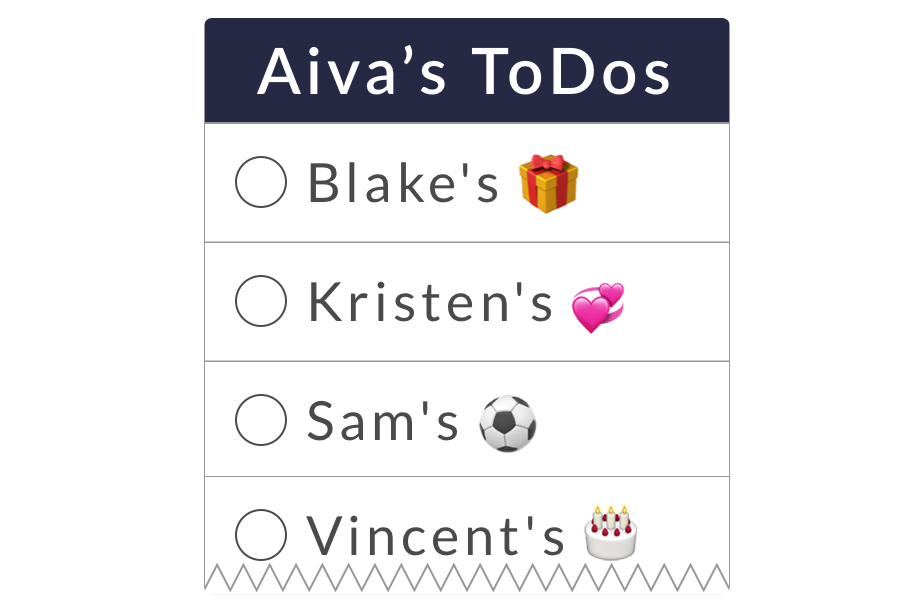
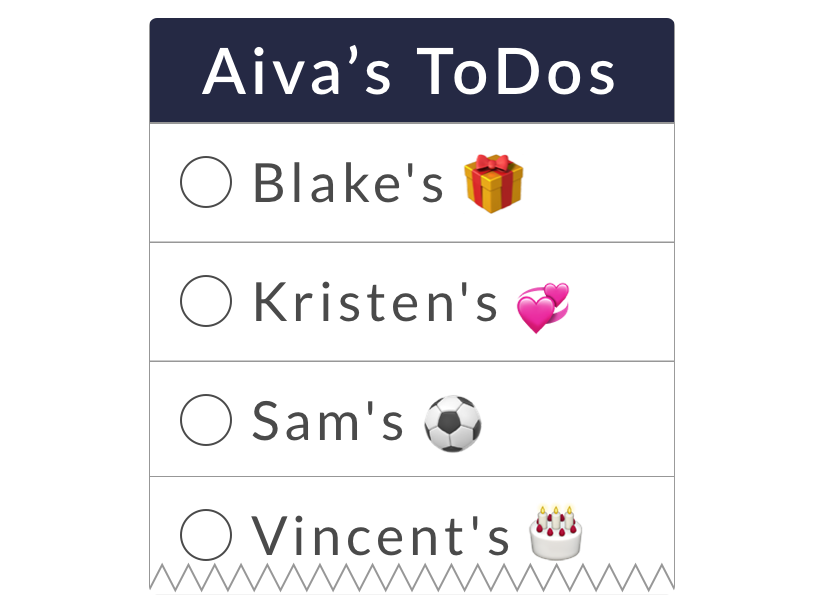
Fixed for mobile screensizes for the most part.

diff --git a/index.html b/index.html
@@ -70,7 +70,7 @@
 			<div class="row row-problem">
 				<div class="col-xs-12 col-md-offset-2 col-md-8">
 					<p class="text-center">
-						Leads are <strong>21 times</strong> more likely to work with an agent if they<br />
+						Leads are <strong>21 times</strong> more likely to work with an agent if they
 						 are contacted in under <strong>5 minutes</strong> of their initial outreach.
 					</p>
 					<img class="img-responsive" src="img/problem-time.png">
@@ -86,7 +86,7 @@
 				<div class="col-xs-12 col-md-offset-2 col-md-8">
 					<p class="text-center">
 						However, it is not easy to keep up with leads and 
-						past clients while <br />
+						past clients while 
 						also focusing on your current clients. That's where Aiva can help!
 					</p>
 				</div>
@@ -95,7 +95,7 @@
 			<div class="row row-features">
 				<h1 class="text-center">How it Works</h1>
 				<!-- First row -->
-				<div class="col-xs-12 col-md-5 col-md-offset-1">
+				<div class="col-xs-12 col-sm-5 col-sm-offset-1">
 					<h2>Online lead management</h2>
 					<p>
 						Aiva uses artificial intelligence and a human-powered team to 
@@ -104,11 +104,11 @@
 						minutes. Aiva will text any lead that comes in from an online source.
 					</p>
 				</div>
-				<img class="img-responsive col-xs-12 col-md-5" src="img/leads.png">
+				<img class="img-responsive col-xs-12 col-sm-5" src="img/leads.png">
 				<div class="clearfix"></div>
 				<!-- Second row -->
-				<img class="img-responsive col-xs-12 col-md-6" src="img/feature-todos.png">
-				<div class="col-xs-12 col-md-5">
+				<img class="img-responsive col-xs-12 col-sm-5 col-sm-offset-1 hidden-xs" src="img/feature-todos.png">
+				<div class="col-xs-12 col-sm-5">
 					<h2>Intelligent reminders</h2>
 					<p>
 						Aiva is powered by Watson, IBM's artificial intelligence 
@@ -117,9 +117,10 @@
 						clients. 
 					</p>
 				</div>
+				<img class="img-responsive col-xs-12 visible-xs" src="img/feature-todos.png">
 				<div class="clearfix"></div>
 				<!-- Third row -->
-				<div class="col-xs-12 col-md-5 col-md-offset-1">
+				<div class="col-xs-12 col-sm-5 col-sm-offset-1">
 					<h2>Automated postcard marketing</h2>
 					<p>
 						 Aiva knows the most impactful time to send a
@@ -128,7 +129,7 @@
 						 postcards for every occasion.  
 					</p>
 				</div>
-				<img class="img-responsive col-xs-12 col-md-6" src="img/postcards.png">
+				<img class="img-responsive col-xs-12 col-sm-5" src="img/postcards.png">
 			</div>
 			<div class="row row-call-to-action">
 				<button type="button" class="btn btn-danger col-xs-8 col-xs-offset-2 col-sm-2 col-sm-offset-5">
@@ -138,7 +139,7 @@
 <!-- ===============Footer===================== -->
 			<footer id="page-footer" class="row">
 				<div class="container-fluid"><div class="row">
-					<div class="col-sm-offset-1 col-sm-2 col-xs-6">
+					<div class="col-sm-offset-1 col-sm-2 col-xs-6 col-xs-offset-0">
 						<div class="title">DECKSPIRE</div>
 						<ul class="list-unstyled">
 							<li><a href="https://www.deckspire.com">Home</a></li>
@@ -156,15 +157,17 @@
 							<li><a href="https://www.deckspire.com/aiva/faq">FAQ</a></li>
 						</ul>
 					</div>
+					<div class="clearfix visible-xs"></div>
 					<div class="col-sm-2 col-xs-6">
 						<div class="title">FOLLOW US</div>
 						<ul class="list-unstyled">
-						<li><a href="https://medium.com/deckspire-thoughts" target="_blank">Medium</a></li>
-						<li><a href="https://twitter.com/deckspire" target="_blank">Twitter</a></li>
-						<li><a href="https://www.linkedin.com/company/deckspire" target="_blank">LinkedIn</a></li>
-					</ul>
-				</div>
-				<div class="col-sm-offset-1 col-sm-3 col-md-offset-1 col-md-3 col-xs-6">
+							<li><a href="https://medium.com/deckspire-thoughts" target="_blank">Medium</a></li>
+							<li><a href="https://twitter.com/deckspire" target="_blank">Twitter</a></li>
+							<li><a href="https://www.linkedin.com/company/deckspire" target="_blank">LinkedIn</a></li>
+						</ul>
+					</div>
+					
+				<div class="col-sm-offset-1 col-sm-3 col-md-offset-1 col-md-3 col-xs-6 col-xs-offset-0">
 					<div class="title">CONTACT</div>
 					<ul class="list-unstyled">
 						<li>
@@ -189,7 +192,7 @@
 			<div class="row">
 			<div class="copyright pull-right">
 				<a href="/privacy">Privacy Policy</a> 
-				&nbsp; &nbsp; &copy; 2017 Deckspire Inc. All Rights Reserved.
+				&nbsp; &copy; 2017 Deckspire Inc. All Rights Reserved.
 			</div>
 			</div>
 			</div></footer>

diff --git a/main.css b/main.css
@@ -38,7 +38,7 @@ a.navbar-brand img, a.navbar-brand:active img, a.navbar-brand:visited img {
 
 /*Page*/
 #page{
-	padding: 40px 0px;
+	padding-top: 40px;
 	font-family: "Lato",sans-serif;
 }
 /*Row-header*/
@@ -46,7 +46,6 @@ a.navbar-brand img, a.navbar-brand:active img, a.navbar-brand:visited img {
 	font-size: 2.7em;
 	padding-top: 10px;
 	margin-bottom: 20px;
-	text-indent:none;
 }
 .row-header .btn{
 	padding: 15px 20px;
@@ -132,4 +131,30 @@ footer a{
 footer .pull-right{
 	margin-top: 20px;
 	padding-right: 30px;
+	font-size: 0.8em;
+}
+
+
+/*Medium Screen*/
+@media screen and (min-width: 992px) and (max-width: 1200px) {
+	.row-header p{
+		font-size: 2.2em;
+	}	
+}
+
+/*Small Screen*/
+@media screen and (min-width: 768px) and (max-width: 992px) {
+	#header-logo{
+		width: 7%;
+	}
+}
+/*extra small screen*/
+@media screen and (max-width: 768px) {
+	#header-logo{
+		width:70px;
+		top:5px;
+	}
+	#large-font{
+		font-size: 2.0em;
+	}
 }
